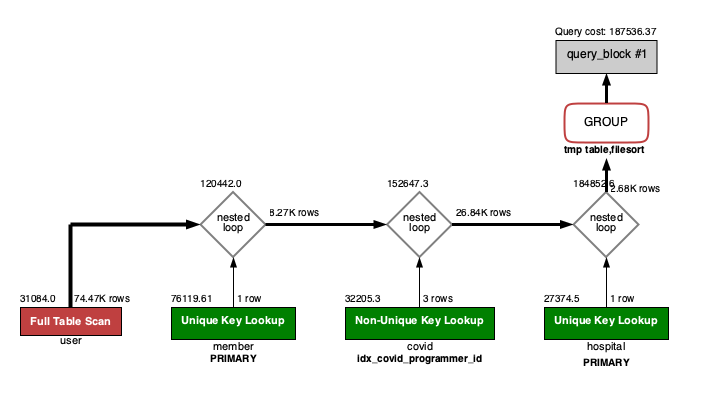
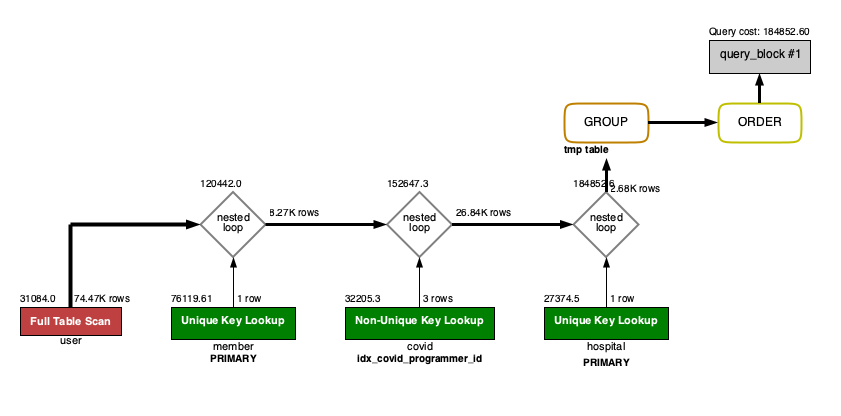
refactor :  쿼리 수정 - order by null

diff --git a/README.md b/README.md
@@ -232,7 +232,8 @@ npm run dev
      INNER JOIN hospital
        ON covid.hospital_id = hospital.id
        AND hospital.name = '서울대병원'
-   GROUP BY user.exercise;
+   GROUP BY user.exercise
+   ORDER BY NULL;
    ```
   - PK 적용 전, 인덱스 적용 전
   > 실행 결과: 30 sec 이상
@@ -242,7 +243,8 @@ npm run dev
   - PK 적용, 인덱스 적용
     - ``alter table `hospital` add primary key (id);``
     - ``CREATE INDEX `idx_covid_programmer_id` ON `covid` (programmer_id);``
-  > 5 row(s) returned	4.496 sec / 0.000019 sec
+  > 5 row(s) returned	4.008 sec / 0.000020 sec
+
 
   ![seoul-hospital-exercise-index](./query/seoul_hospital_exercise_index.png)
 
